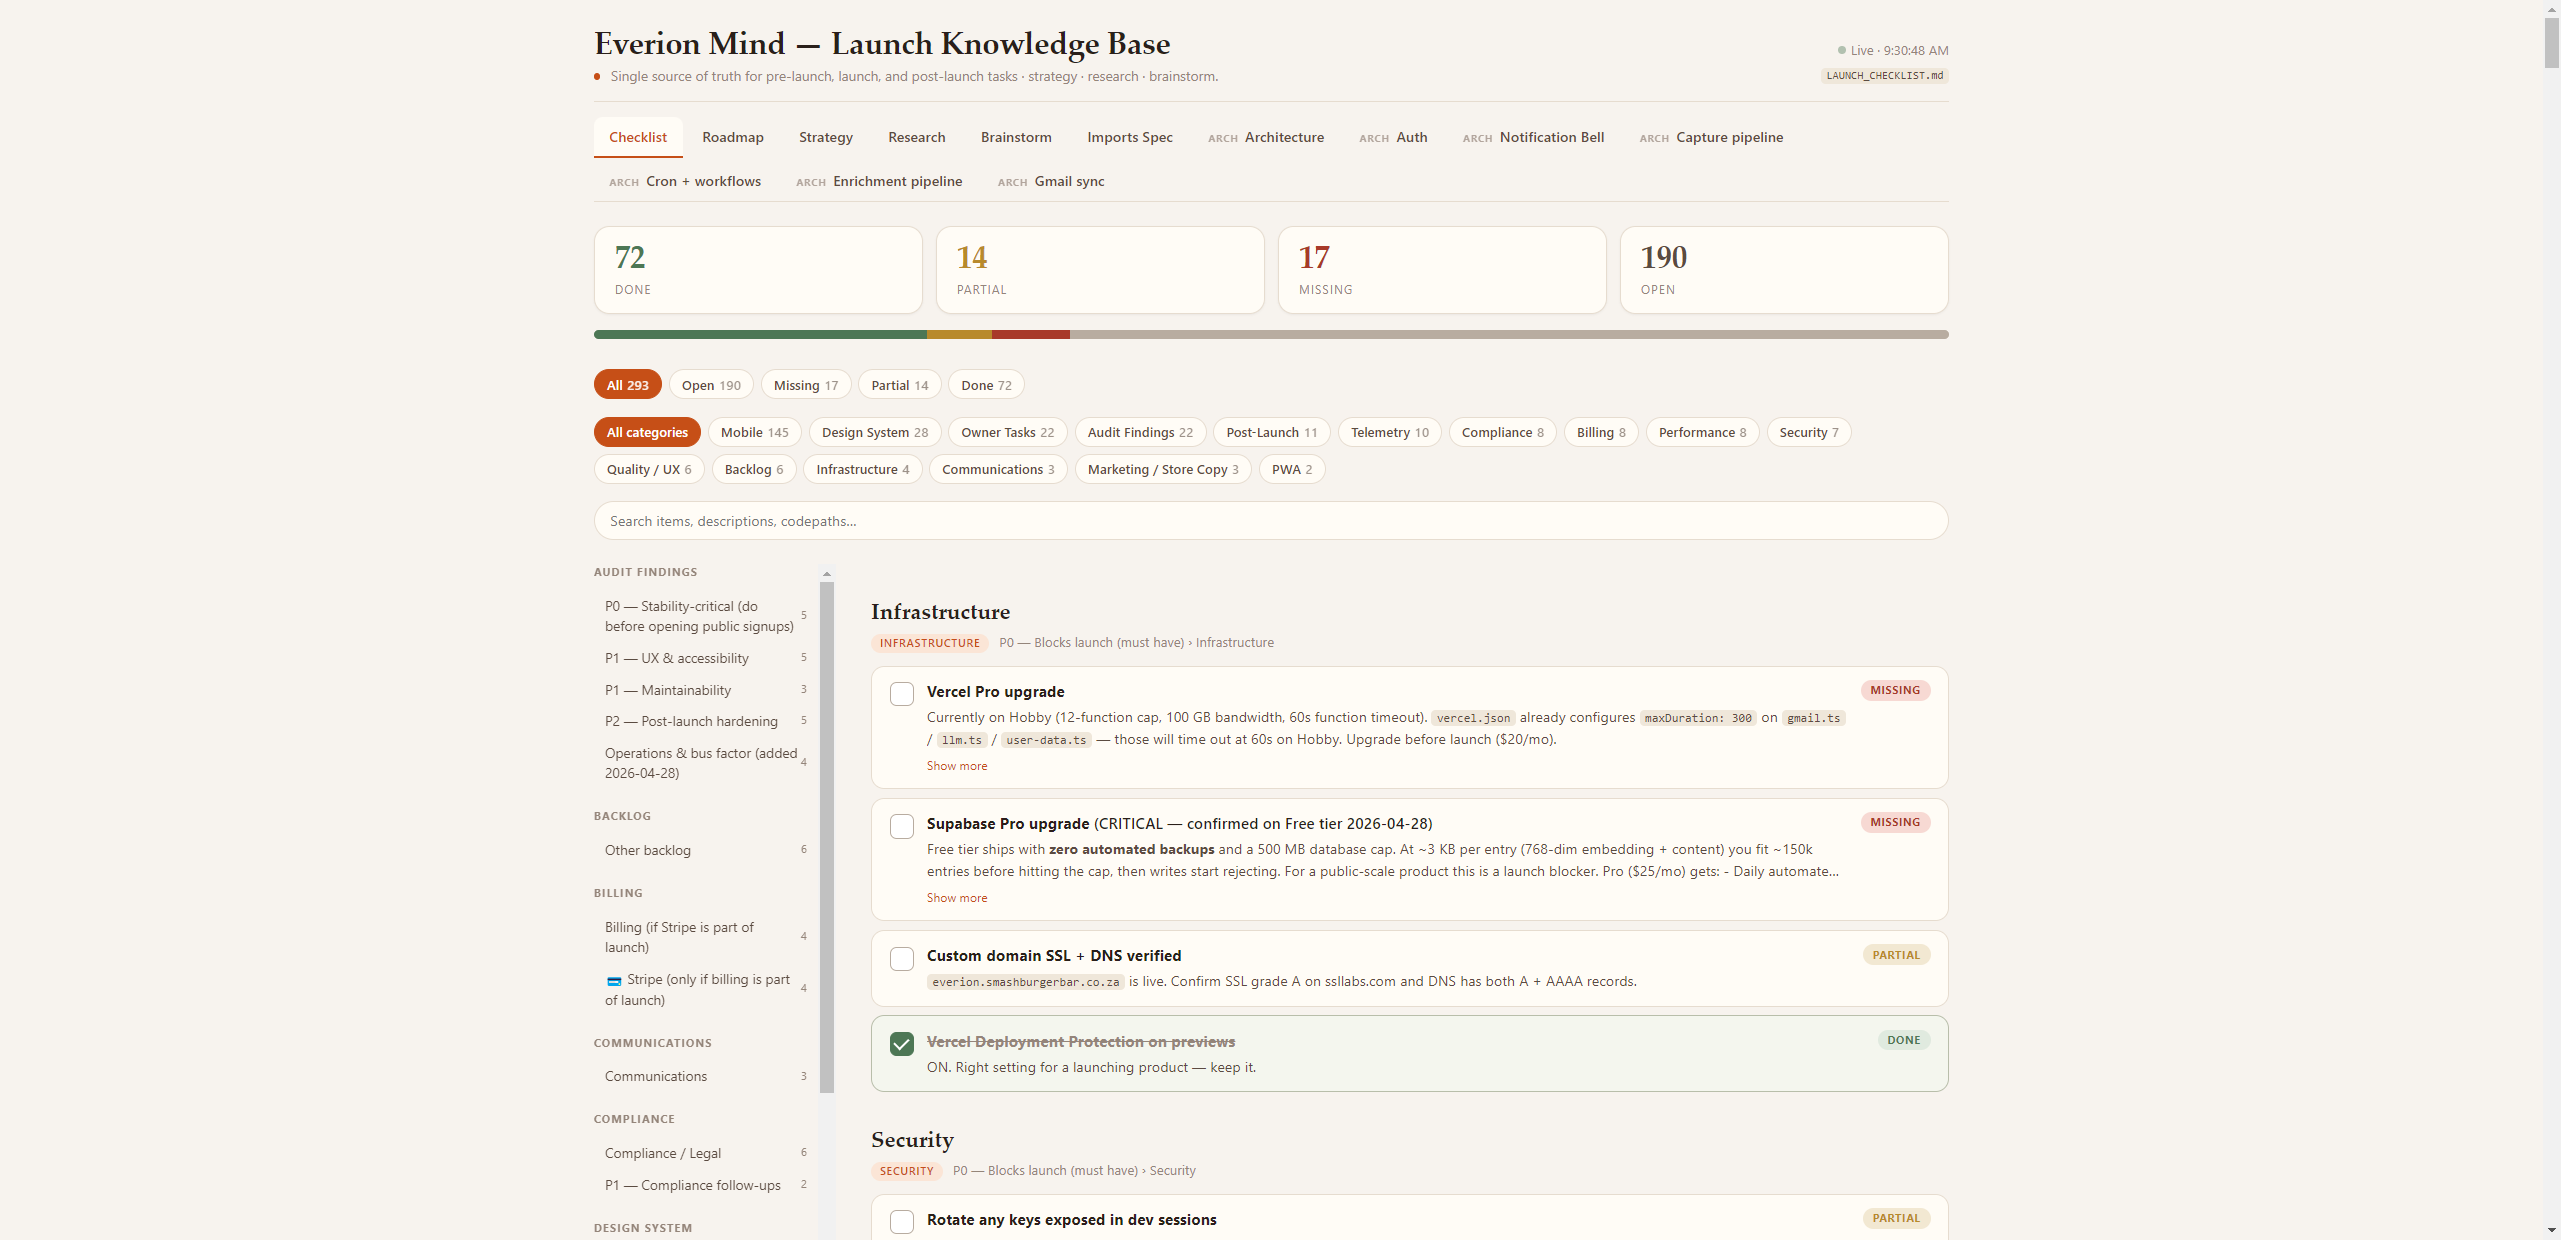
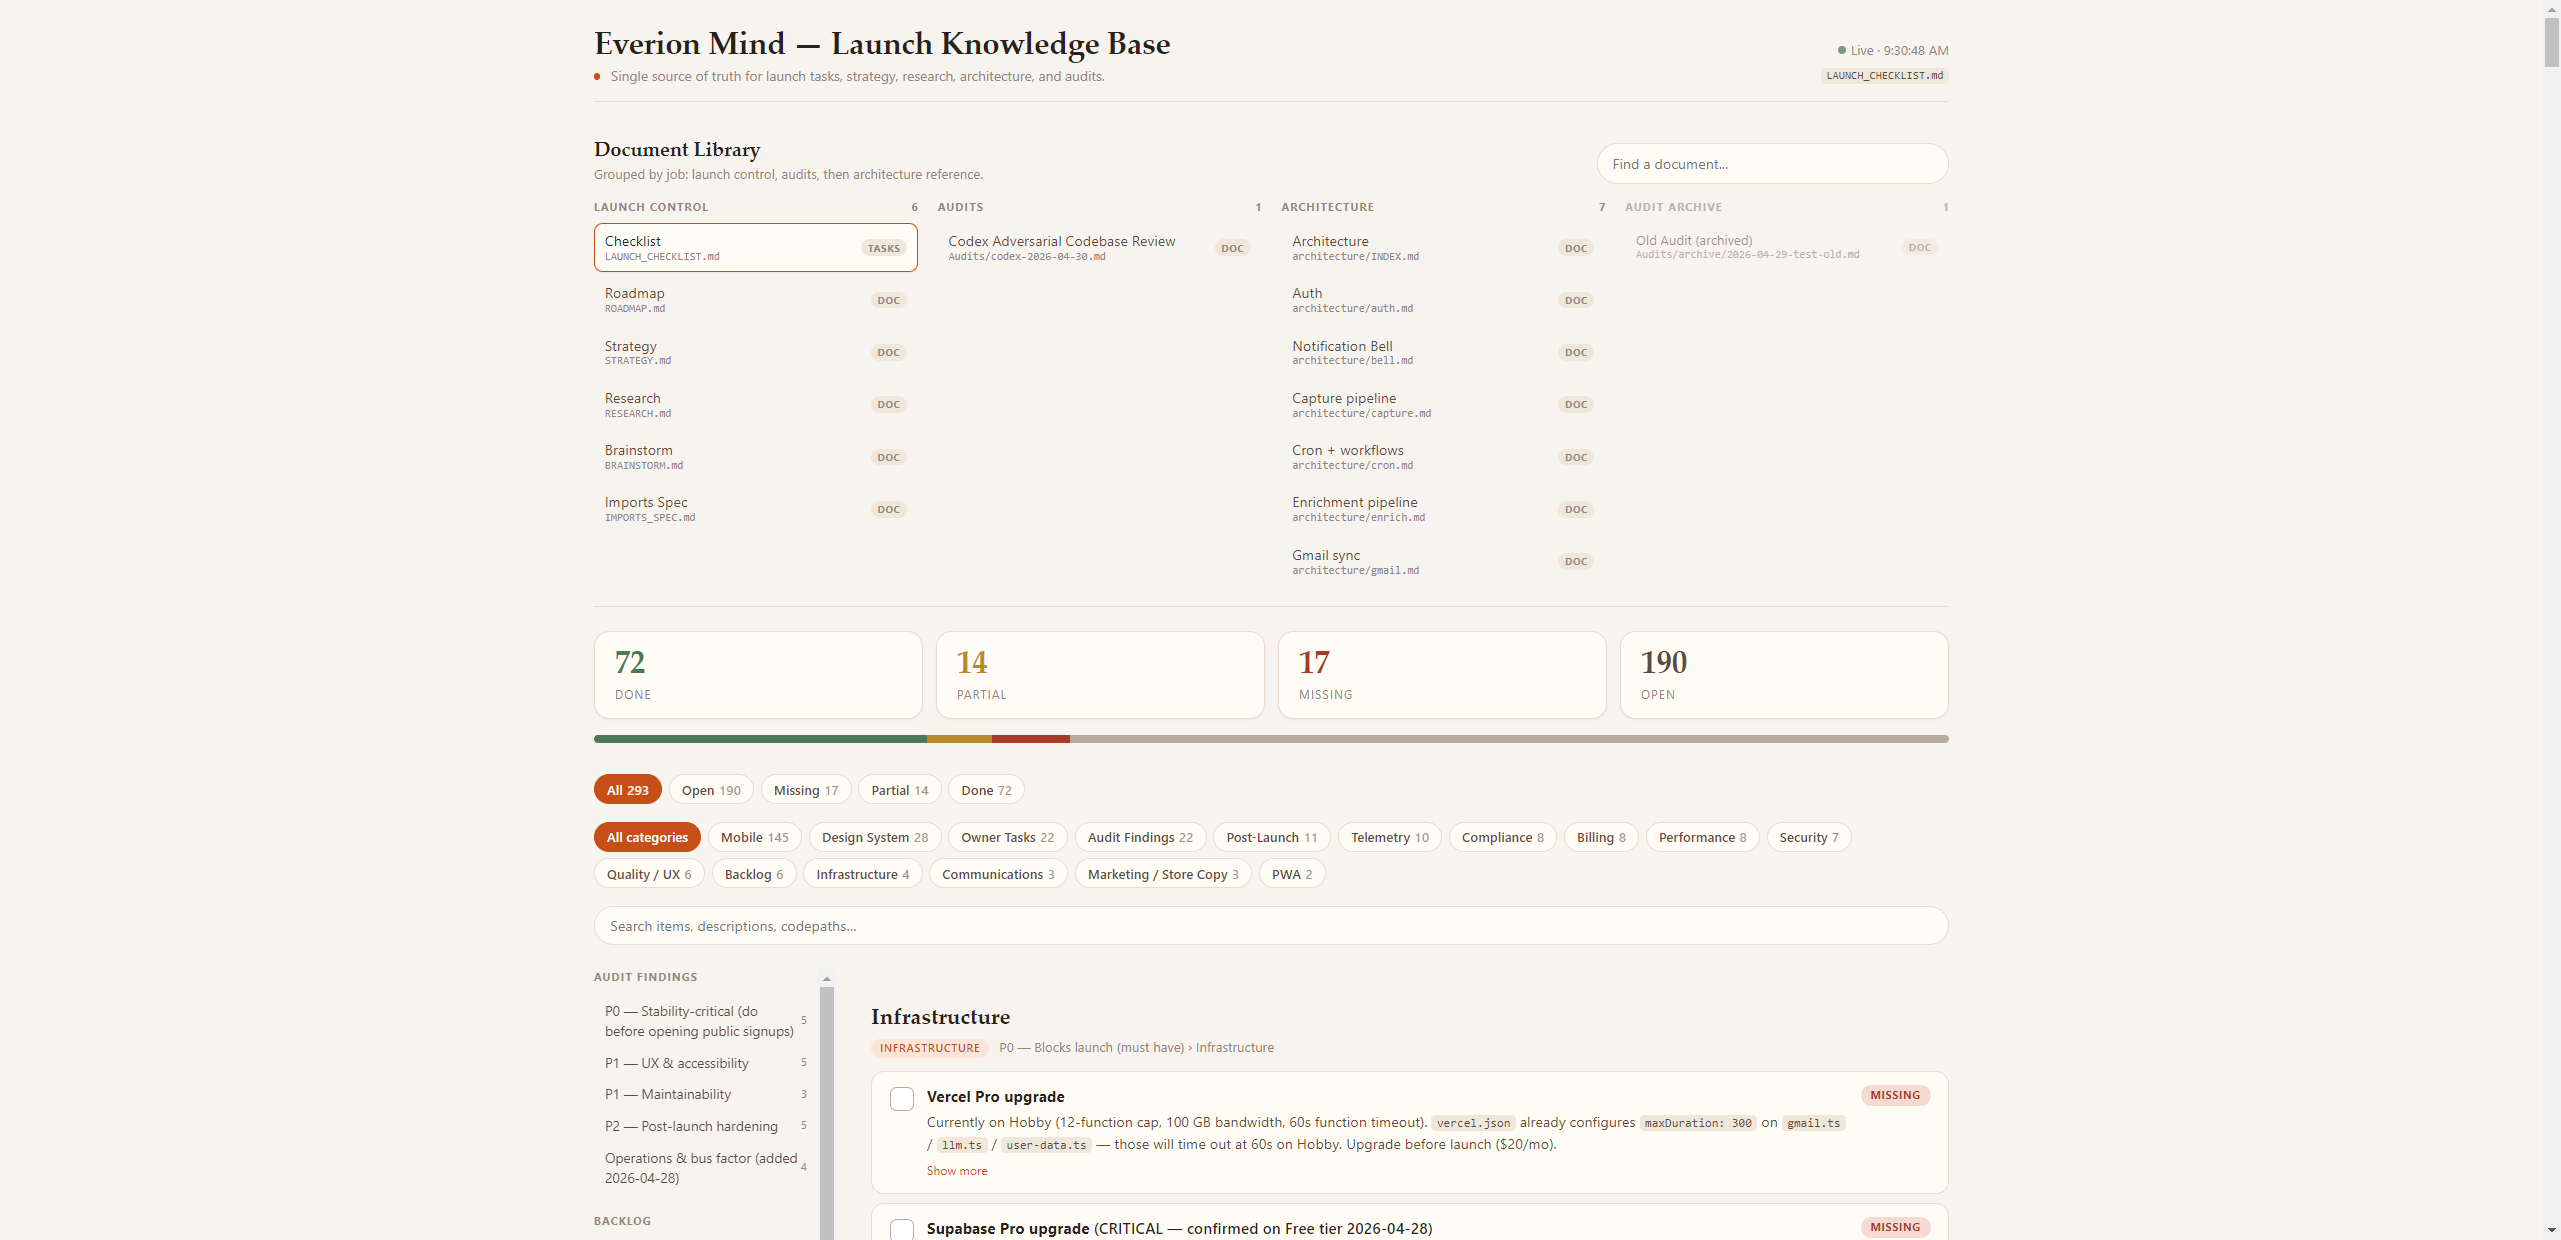
feat(EML): audit archive workflow — addressed audits demote out of Audits tab
After the user asks me to address an audit, the playbook (now in
CLAUDE.md) is:
  1. Read + address findings (commits)
  2. Lift deferred items into LAUNCH_CHECKLIST.md with traceability tag
  3. Prepend a "## Resolution — YYYY-MM-DD" section to the audit
  4. git mv EML/Audits/<file>.md EML/Audits/archive/<file>.md
  5. Commit

Plumbing for it:
- Server: Audits/archive added to AUTO_GROUPS as group "audits-archive"
  (auto-discovered, no DOCS edit per archived audit)
- Client: "Audit Archive" pinned at the bottom of DOC_GROUPS with
  muted: true → 0.62 opacity + 12px font + 32px row height so it stays
  visible-for-context but doesn't crowd the active Audits column
- Audits/archive/.gitkeep so the empty subfolder commits cleanly

Verified: drop a .md into Audits/archive/ → "Audit Archive" group
appears at the bottom of the Document Library (muted), with the
correct title from its first H1; remove it → the group disappears
again on the next 2.5s poll.

CLAUDE.md updated with the full address-and-archive workflow + audit
drop-in note.

diff --git a/EverionMindLaunch/index.html b/EverionMindLaunch/index.html
@@ -167,42 +167,139 @@
         50% { opacity: 0.4; }
       }
 
-      /* ── Doc tabs (nav across knowledge base) ───────────────────────── */
+      /* ── Document library ────────────────────────────────────────────── */
       nav.doc-tabs {
-        margin: 14px 0 4px;
-        display: flex;
-        gap: 4px;
-        flex-wrap: wrap;
+        margin: 18px 0 4px;
+        padding: 14px 0 18px;
         border-bottom: 1px solid var(--line);
       }
-      nav.doc-tabs .tab {
-        background: none;
-        border: 0;
-        padding: 9px 14px;
-        font-family: var(--f-sans);
+      .doc-library-head {
+        display: flex;
+        justify-content: space-between;
+        align-items: flex-end;
+        gap: 18px;
+        margin-bottom: 14px;
+      }
+      .doc-library-title {
+        font-family: var(--f-serif);
+        font-size: 18px;
+        line-height: 1.2;
+        font-weight: 600;
+        margin: 0 0 3px;
+      }
+      .doc-library-note {
+        color: var(--ink-faint);
+        font-size: 12px;
+      }
+      .doc-search {
+        width: min(320px, 100%);
+        padding: 9px 13px;
         font-size: 13px;
-        font-weight: 500;
+        font-family: var(--f-sans);
+        background: var(--surface);
+        border: 1px solid var(--line);
+        border-radius: 999px;
+        color: var(--ink);
+        outline: none;
+      }
+      .doc-search:focus {
+        border-color: var(--ember);
+        box-shadow: 0 0 0 3px color-mix(in srgb, var(--ember) 12%, transparent);
+      }
+      .doc-groups {
+        display: grid;
+        grid-template-columns: repeat(auto-fit, minmax(190px, 1fr));
+        gap: 18px;
+        align-items: start;
+      }
+      .doc-group {
+        min-width: 0;
+      }
+      .doc-group.muted { opacity: 0.62; }
+      .doc-group.muted:hover { opacity: 1; }
+      .doc-group.muted .doc-btn { font-size: 12px; min-height: 32px; }
+      .doc-group-title {
+        display: flex;
+        justify-content: space-between;
+        align-items: center;
+        gap: 8px;
+        margin-bottom: 7px;
+        color: var(--ink-faint);
+        font-size: 10px;
+        font-weight: 700;
+        letter-spacing: 0.1em;
+        text-transform: uppercase;
+      }
+      .doc-group-title .count {
+        font-variant-numeric: tabular-nums;
+        letter-spacing: 0;
+      }
+      .doc-group-items {
+        display: flex;
+        flex-direction: column;
+        gap: 3px;
+      }
+      .doc-btn {
+        display: grid;
+        grid-template-columns: 1fr auto;
+        align-items: center;
+        gap: 8px;
+        width: 100%;
+        min-height: 38px;
+        background: transparent;
+        border: 1px solid transparent;
+        border-radius: 8px;
+        padding: 7px 9px;
         color: var(--ink-soft);
         cursor: pointer;
-        border-radius: 8px 8px 0 0;
-        margin-bottom: -1px;
-        border-bottom: 2px solid transparent;
-        transition: all 0.12s ease;
+        font-family: var(--f-sans);
+        font-size: 13px;
+        line-height: 1.25;
+        text-align: left;
+        transition: background 0.12s ease, border-color 0.12s ease, color 0.12s ease;
       }
-      nav.doc-tabs .tab:hover { color: var(--ember); background: var(--ember-wash); }
-      nav.doc-tabs .tab.active {
+      .doc-btn:hover {
+        background: var(--ember-wash);
         color: var(--ember);
-        border-bottom-color: var(--ember);
-        background: var(--surface);
       }
-      nav.doc-tabs .tab .group-tag {
-        font-size: 9px;
-        text-transform: uppercase;
-        letter-spacing: 0.08em;
-        font-weight: 700;
+      .doc-btn.active {
+        background: var(--surface);
+        border-color: var(--ember);
+        color: var(--ink);
+        box-shadow: var(--shadow-sm);
+      }
+      .doc-btn:focus-visible {
+        outline: 2px solid var(--ember);
+        outline-offset: 2px;
+      }
+      .doc-btn > span:first-child {
+        min-width: 0;
+      }
+      .doc-btn .doc-path {
+        display: block;
+        overflow: hidden;
         color: var(--ink-faint);
-        margin-right: 6px;
-        opacity: 0.7;
+        font-family: var(--f-mono);
+        font-size: 10px;
+        text-overflow: ellipsis;
+        white-space: nowrap;
+      }
+      .doc-btn .doc-role {
+        border-radius: 999px;
+        background: var(--line-soft);
+        color: var(--ink-faint);
+        font-size: 9px;
+        font-weight: 700;
+        letter-spacing: 0.06em;
+        padding: 2px 6px;
+        text-transform: uppercase;
+      }
+      .doc-empty {
+        color: var(--ink-faint);
+        font-family: var(--f-serif);
+        font-size: 13px;
+        font-style: italic;
+        padding: 8px 0;
       }
 
       /* ── Score band (checklist only) ─────────────────────────────────── */
@@ -439,7 +536,8 @@
         .layout { grid-template-columns: 1fr; }
         nav.sidebar { position: static; max-height: none; }
         .scorecard { grid-template-columns: repeat(2, 1fr); }
-        nav.doc-tabs { font-size: 12px; }
+        .doc-library-head { align-items: stretch; flex-direction: column; }
+        .doc-search { width: 100%; }
       }
       nav.sidebar {
         position: sticky;
@@ -578,7 +676,7 @@
           <h1>Everion Mind — Launch Knowledge Base</h1>
           <div class="subtitle">
             <span class="ember-dot"></span>
-            Single source of truth for pre-launch, launch, and post-launch tasks · strategy · research · brainstorm.
+            Single source of truth for launch tasks, strategy, research, architecture, and audits.
           </div>
         </div>
         <div class="meta">
@@ -587,7 +685,7 @@
         </div>
       </header>
 
-      <nav class="doc-tabs" id="doc-tabs"></nav>
+      <nav class="doc-tabs" id="doc-tabs" aria-label="Document library"></nav>
 
       <main id="root"></main>
     </div>
@@ -601,6 +699,7 @@
       let docs = [];                          // [{ id, file, title, role, group, mtime, ... }]
       let activeDocId = "checklist";          // which tab is selected
       let docCache = new Map();               // docId → { content, mtime, parsed }
+      let docNavTerm = "";
       let activeStatus = "all";
       let activeCategory = "all";
       let searchTerm = "";
@@ -922,20 +1021,79 @@
       }
 
       // ───────────────────────────────────────────────────────────────────
-      // Render: Doc tabs (top nav)
+      // Render: Document library
       // ───────────────────────────────────────────────────────────────────
+      // Group order = render order. Audit Archive sits at the bottom so
+      // it doesn't crowd the active Audits column. The `muted` flag dims
+      // the section so addressed audits stay visible-but-de-emphasized.
+      const DOC_GROUPS = [
+        { key: "core", label: "Launch Control" },
+        { key: "audits", label: "Audits" },
+        { key: "architecture", label: "Architecture" },
+        { key: "audits-archive", label: "Audit Archive", muted: true },
+      ];
+
+      function docGroupOf(doc) {
+        return doc.group || "core";
+      }
+
       function renderTabs() {
         const tabsEl = document.getElementById("doc-tabs");
-        // Group architecture sub-docs visually under one parent tab
-        const archDocs = docs.filter(d => d.group === "architecture");
-        const standalone = docs.filter(d => !d.group);
-        const html = standalone.map(d =>
-          `<button class="tab ${d.id === activeDocId ? "active" : ""}" data-doc="${d.id}">${escapeHtml(d.title)}</button>`
-        ).join("") + (archDocs.length ? archDocs.map(d =>
-          `<button class="tab ${d.id === activeDocId ? "active" : ""}" data-doc="${d.id}"><span class="group-tag">arch</span>${escapeHtml(d.title)}</button>`
-        ).join("") : "");
-        tabsEl.innerHTML = html;
-        tabsEl.querySelectorAll(".tab").forEach(btn => {
+        const needle = docNavTerm.trim().toLowerCase();
+        const visibleDocs = docs.filter((doc) => {
+          if (!needle) return true;
+          return [doc.title, doc.file, doc.group || "launch"].join(" ").toLowerCase().includes(needle);
+        });
+        const knownGroups = new Set(DOC_GROUPS.map(g => g.key));
+        const extraGroups = [...new Set(visibleDocs.map(docGroupOf).filter(g => !knownGroups.has(g)))]
+          .map(key => ({ key, label: key.replace(/[-_]/g, " ") }));
+        const groups = [...DOC_GROUPS, ...extraGroups].map((group) => {
+          const groupDocs = visibleDocs.filter(doc => docGroupOf(doc) === group.key);
+          if (!groupDocs.length) return "";
+          return `
+            <section class="doc-group ${group.muted ? "muted" : ""}" aria-label="${escapeHtml(group.label)}">
+              <div class="doc-group-title">
+                <span>${escapeHtml(group.label)}</span>
+                <span class="count">${groupDocs.length}</span>
+              </div>
+              <div class="doc-group-items">
+                ${groupDocs.map(doc => `
+                  <button class="doc-btn ${doc.id === activeDocId ? "active" : ""}" data-doc="${doc.id}">
+                    <span>
+                      <span>${escapeHtml(doc.title)}</span>
+                      <span class="doc-path">${escapeHtml(doc.file)}</span>
+                    </span>
+                    <span class="doc-role">${doc.role === "checklist" ? "tasks" : "doc"}</span>
+                  </button>
+                `).join("")}
+              </div>
+            </section>
+          `;
+        }).join("");
+
+        tabsEl.innerHTML = `
+          <div class="doc-library-head">
+            <div>
+              <div class="doc-library-title">Document Library</div>
+              <div class="doc-library-note">Grouped by job: launch control, audits, then architecture reference.</div>
+            </div>
+            <input type="search" class="doc-search" id="doc-search" placeholder="Find a document..." value="${escapeHtml(docNavTerm)}" aria-label="Search documents" />
+          </div>
+          <div class="doc-groups">
+            ${groups || `<div class="doc-empty">No documents match that search.</div>`}
+          </div>
+        `;
+
+        tabsEl.querySelector("#doc-search").addEventListener("input", (e) => {
+          docNavTerm = e.target.value;
+          renderTabs();
+          const search = document.getElementById("doc-search");
+          if (search) {
+            search.focus();
+            search.setSelectionRange(search.value.length, search.value.length);
+          }
+        });
+        tabsEl.querySelectorAll(".doc-btn").forEach(btn => {
           btn.addEventListener("click", () => {
             activeDocId = btn.dataset.doc;
             renderTabs();

diff --git a/CLAUDE.md b/CLAUDE.md
@@ -18,6 +18,18 @@
 >
 > Browse at `http://localhost:5174` via `node EverionMindLaunch/server.mjs` (live-syncs both directions: edit a `.md`, dashboard updates; tick a checkbox, `.md` updates). README in the same folder explains how the docs fit together.
 > If a launch-related task isn't here, it doesn't exist. Move it in before working on it.
+>
+> **Audit drop-in:** any `.md` in `EML/Audits/` is auto-discovered by the dashboard (no server edit needed). Title comes from the file's first `# H1`; sort is mtime-desc.
+>
+> **Audit address-and-archive workflow** (when the user asks to address an audit):
+> 1. Read the audit file end-to-end.
+> 2. Address each finding — code changes, commits, follow-up specs.
+> 3. For findings you do NOT address in this pass, lift them into `EML/LAUNCH_CHECKLIST.md` under the right priority tier with a traceability tag like `(from EML/Audits/<file>, finding #N)`.
+> 4. Prepend a `## Resolution — YYYY-MM-DD` section to the audit summarizing: addressed (with commit SHAs), deferred (with checklist links), wontfix (with reason).
+> 5. `git mv EML/Audits/<file>.md EML/Audits/archive/<file>.md`
+> 6. Commit: `chore(EML): archive Audits/<file> — addressed in <commits>, deferred N items to checklist`.
+>
+> The dashboard then drops the audit out of the active "Audits" group into "Audit Archive" (muted, bottom of library) on the next 2.5s poll. Nothing is deleted; the file + git history stay intact for future reference.
 
 > **DEFAULT RESPONSE STYLE: caveman skill, full intensity.**
 > All user-facing prose in this project follows the `caveman` skill (full mode by default). Drop articles (a/an/the), filler (just/really/basically/actually/simply), pleasantries (sure/of course/happy to), and hedging. Fragments OK. Short synonyms (fix not "implement a solution for"). **Code blocks, file paths, and exact error strings stay verbatim — never compress those.** Switch to lite only if user asks; switch off only on explicit request.
